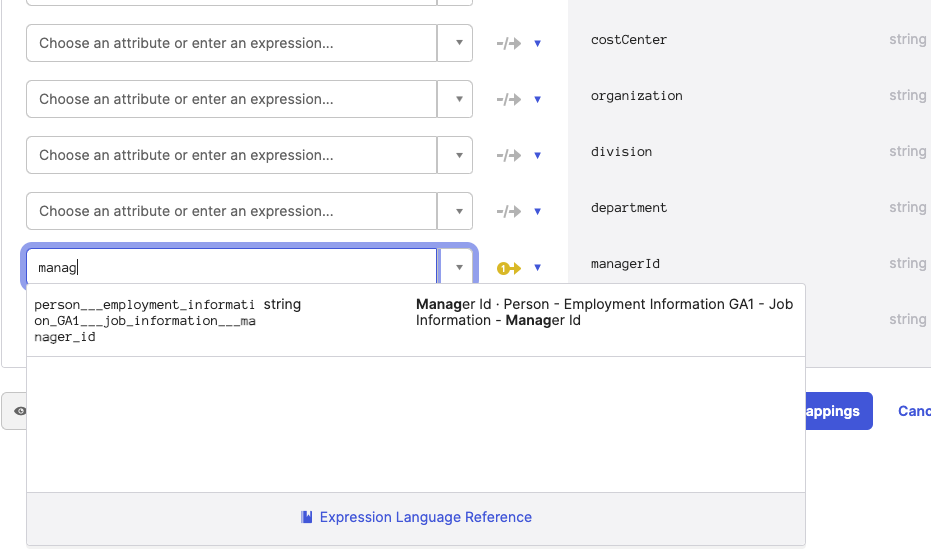
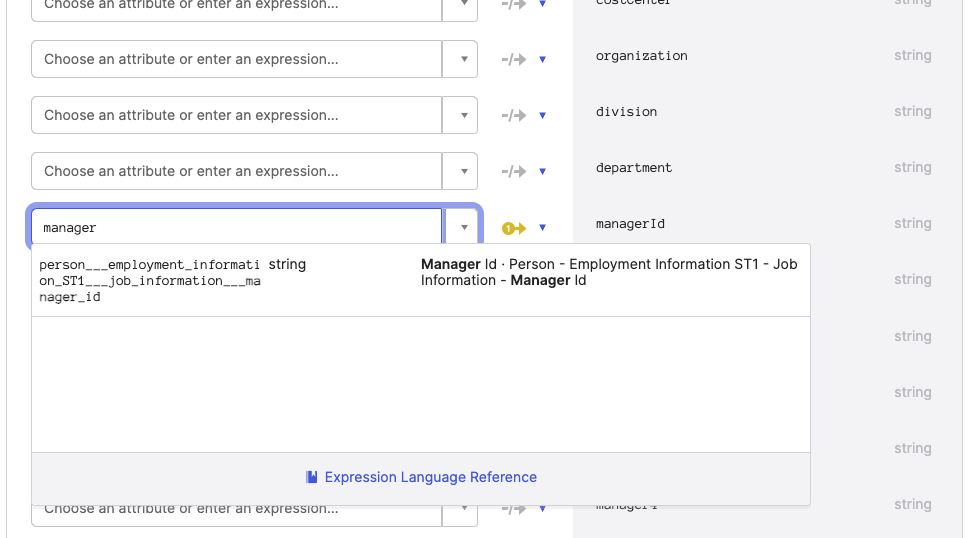
SAP

diff --git a/003-successfactors.md b/003-successfactors.md
@@ -86,14 +86,14 @@ LastName:
 String.len(String.removeSpaces(appuser.lastName)) > 0 ? appuser.lastName : "L_" + appuser.userName
 ```
 
-10. **Optional** The manager attribute is not mapped to an Okta attribute by default, here are the steps to mapp it:
+10. **Optional step** The manager attribute is not mapped to an Okta attribute by default, here are the steps to configure it:
    - in the left menu, go to **Directory** > **Profile Editor**
    - click on the app **SuccessFactors**
    - click on **Add Attribute**, search for **manager_id**, select the **ST1** attribute and click on **Save**
-      ![alt_text](https://raw.githubusercontent.com/NicolasMiramon/LabGuide/main/images/010/image20.png "image_tooltip")
+   ![alt_text](https://raw.githubusercontent.com/NicolasMiramon/LabGuide/main/images/010/image20.png "image_tooltip")
    - Go back to **Profile Editor**, click on **Mappings** next to the app **SuccessFactors**
    - In the tab **SuccessFactors to Okta User**, scroll down until you see the attribute **managerId**, search for manager, select the attribute you have added earlier then click on **Save Mappings**
-      ![alt_text](https://raw.githubusercontent.com/NicolasMiramon/LabGuide/main/images/010/image22.png "image_tooltip")
+   ![alt_text](https://raw.githubusercontent.com/NicolasMiramon/LabGuide/main/images/010/image22.png "image_tooltip")
    
 
 11.   You are now ready to import the users from SAP to Okta. The import can be scheduled automatically, however we prefer to do it manually in this lab in order to see this step. Go to the **Import** tab, click on **Import Now**, select **Full import** then click on **Import**. This step will take around 5min as the connector will have to import around 1300 users the first time, it will be so much quicker afterwards.
@@ -106,7 +106,7 @@ String.len(String.removeSpaces(appuser.lastName)) > 0 ? appuser.lastName : "L_" 
 
       We will confirm the import of **Emily Boone**.
 
-      In the import page, type **emily** in the search bar, select **Emimy Boone** then click on **Confirm Assignements**. 
+      In the import page, type **emily** in the search bar, select **Emily Boone** then click on **Confirm Assignments**. 
 
       Click on **Auto-activate users after confirmation** then on **Confirm**
 
